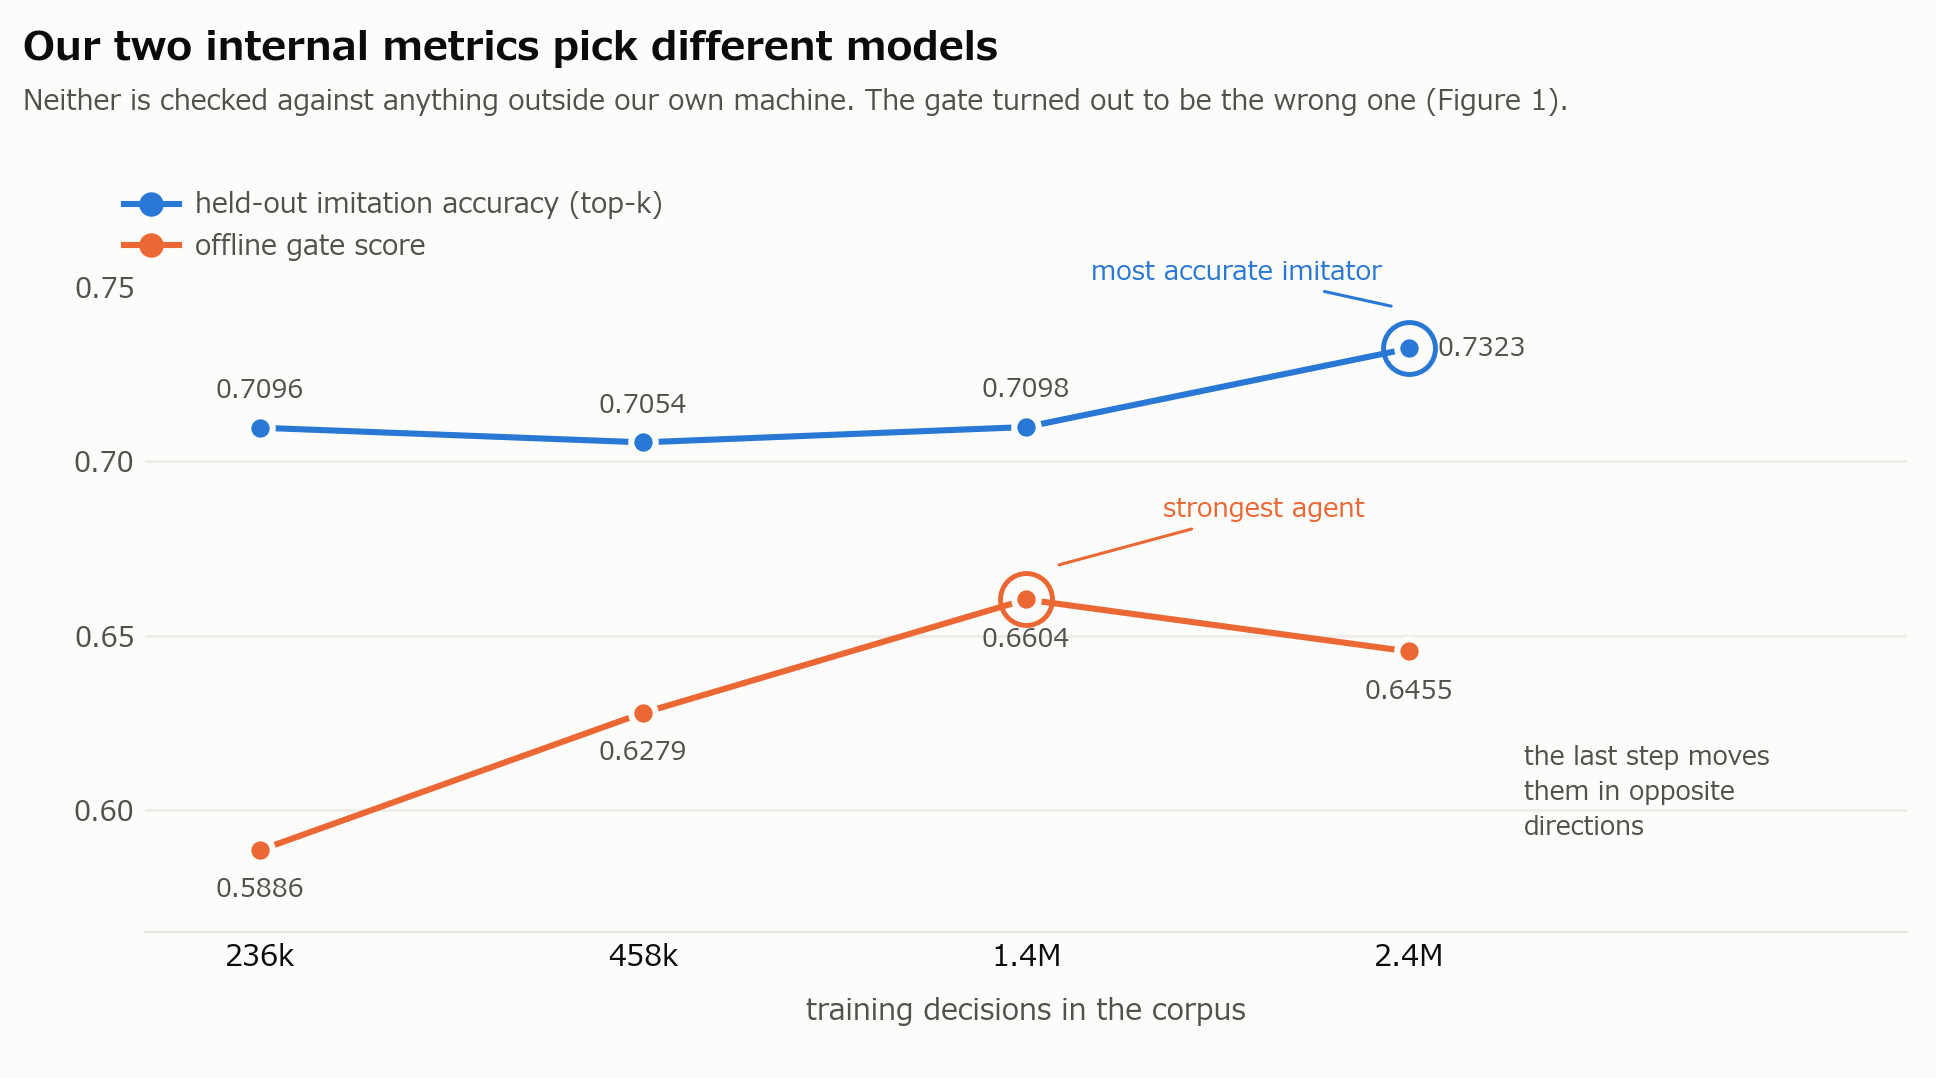
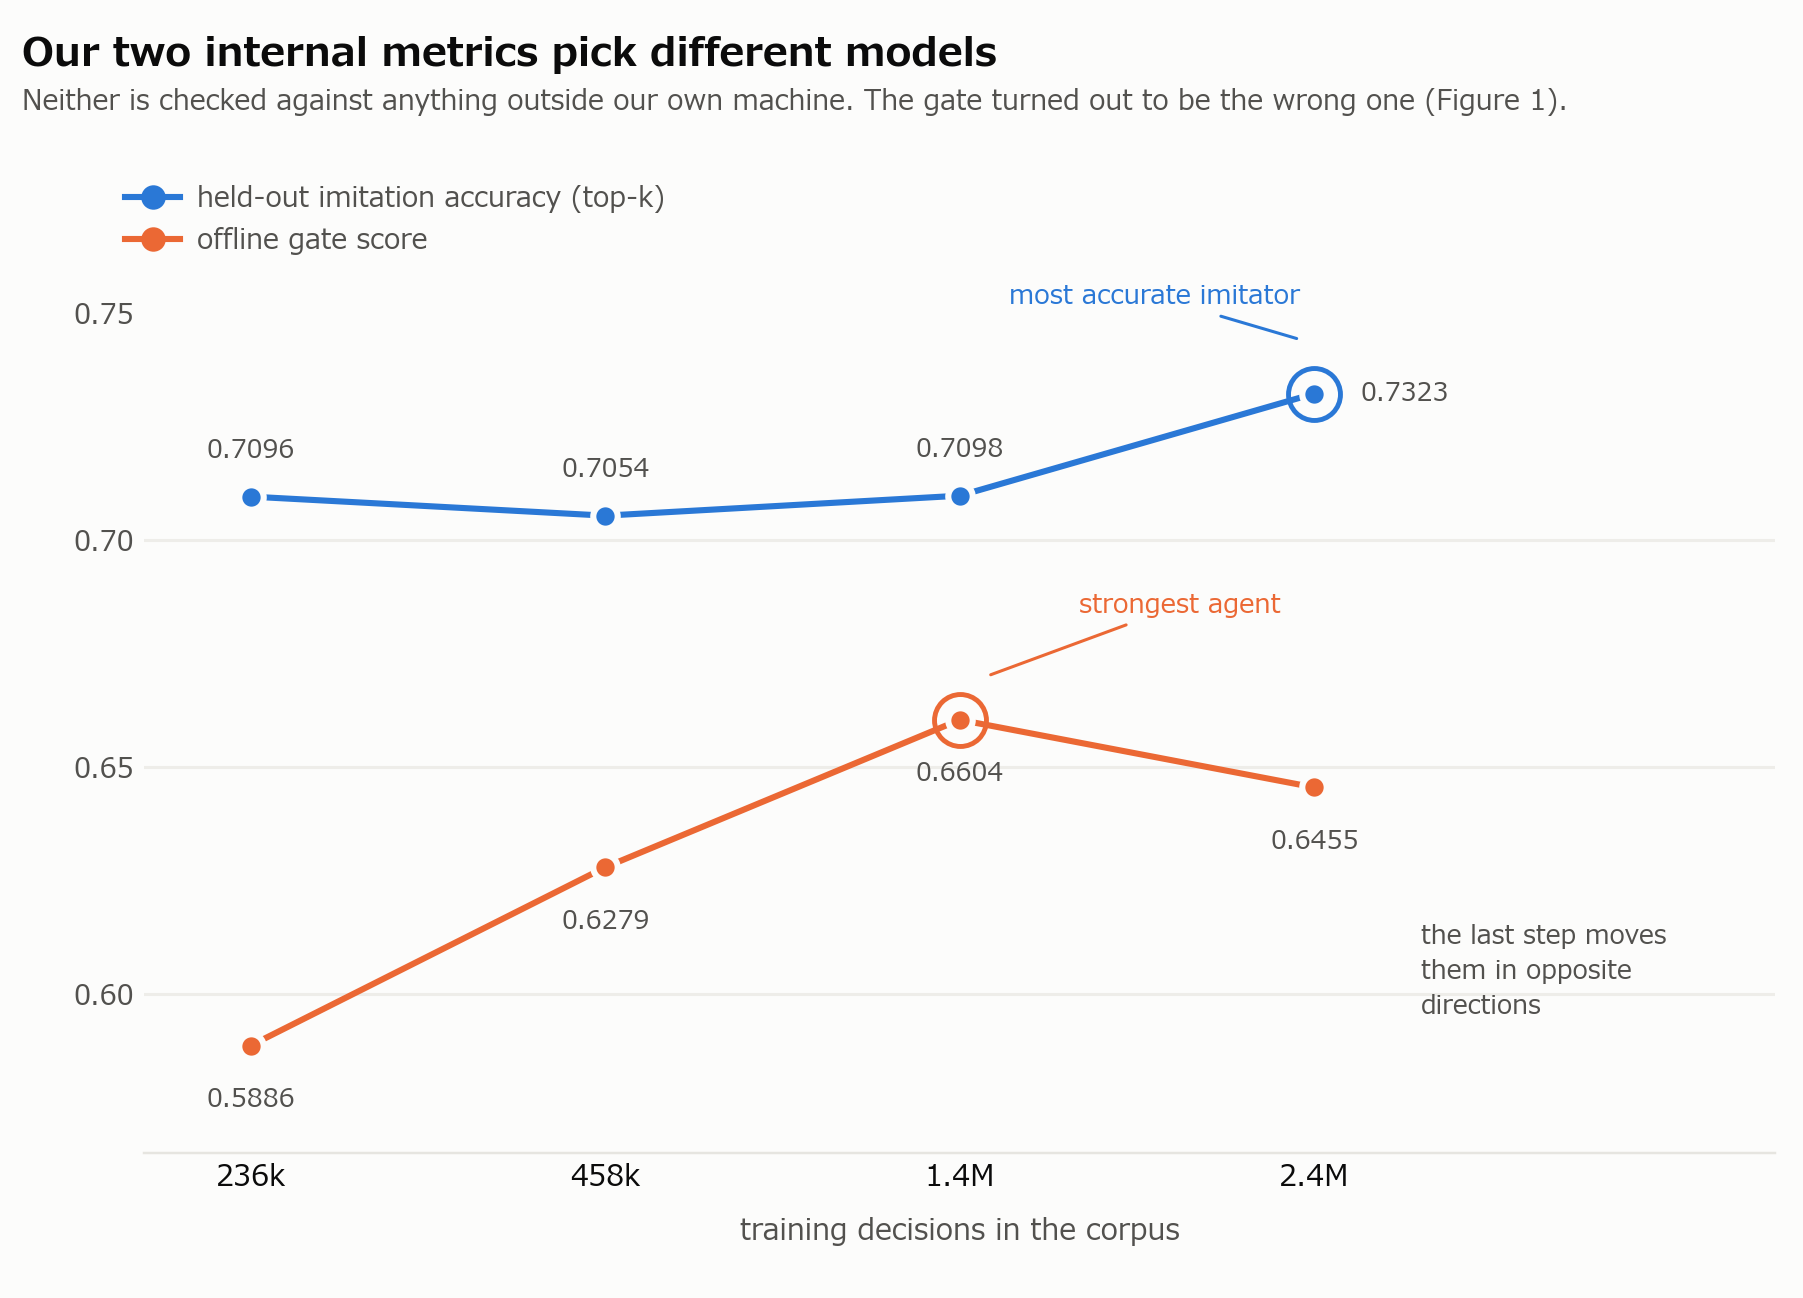
fix: reshape the five figures for the media gallery -- stack figure 3's panels vertically, narrow the ledger table, and add Japanese card names to the drift chart

diff --git a/competition/figures/fig3_drift.py b/competition/figures/fig3_drift.py
@@ -20,20 +20,20 @@ DRG, EBD, OURS = "#2a78d6", "#eb6834", "#184f95"
 DAYS = ["08-08", "08-11", "08-13", "08-15"]
 X = list(range(4))
 SHARE = {
-    "Dragapult":            ([10.7, 18.9, 27.7, 34.2], DRG,   2.4),
+    "Dragapult ドラパルトex":  ([10.7, 18.9, 27.7, 34.2], DRG,   2.4),
     "ex-beatdown":          ([12.8,  9.9, 22.5, 27.3], EBD,   2.4),
-    "Mixed-ex (ex4)":       ([18.9, 20.1,  9.3, 12.8], FAINT, 1.6),
-    "Alakazam-type":        ([17.1, 14.1, 15.9, 12.8], FAINT, 1.6),
-    "Grimmsnarl (ours)":    ([25.6, 18.6, 11.6,  6.1], MUTED, 1.8),
-    "Lucario ex":           ([ 4.7, 11.7,  5.5,  3.1], FAINT, 1.6),
-    "Crustle control":      ([ 6.0,  4.4,  6.7,  2.0], FAINT, 1.6),
+    "Mixed-ex (ex4)":        ([18.9, 20.1,  9.3, 12.8], FAINT, 1.6),
+    "Alakazam-type フーディン":  ([17.1, 14.1, 15.9, 12.8], FAINT, 1.6),
+    "Grimmsnarl マリィのオーロンゲex (ours)": ([25.6, 18.6, 11.6,  6.1], MUTED, 1.8),
+    "Lucario ex メガルカリオex": ([ 4.7, 11.7,  5.5,  3.1], FAINT, 1.6),
+    "Crustle control イワパレス": ([ 6.0,  4.4,  6.7,  2.0], FAINT, 1.6),
 }
 WR_DAYS = ["08-09", "08-11", "08-13", "08-15"]
 WR = [0.415, 0.403, 0.368, 0.334]
 ELO = [0, -8, -35, -60]
 
-fig, (axL, axR) = plt.subplots(1, 2, figsize=(11.2, 4.9), dpi=220,
-                               gridspec_kw={"width_ratios": [1.35, 1]})
+fig, (axL, axR) = plt.subplots(2, 1, figsize=(8.6, 7.6), dpi=220,
+                               gridspec_kw={"height_ratios": [1.25, 1]})
 fig.patch.set_facecolor(SURFACE)
 
 # ------------------------------------------------------------------ left panel
@@ -77,10 +77,10 @@ for x, (w, e) in enumerate(zip(WR, ELO)):
     if e:
         axR.text(x, w - 0.011, f"{e} Elo", ha="center", va="top", fontsize=8.3,
                  color=EBD, fontweight="bold")
-axR.annotate("", xy=(2.97, 0.336), xytext=(2.97, 0.4125),
+axR.annotate("", xy=(2.78, 0.3385), xytext=(2.78, 0.4125),
              arrowprops=dict(arrowstyle="-|>", color=EBD, lw=1.4,
                              mutation_scale=11, shrinkA=3, shrinkB=3))
-axR.text(2.86, 0.4285, "60 rating points, with the\nagent never touched",
+axR.text(2.67, 0.4285, "60 rating points, with the\nagent never touched",
          ha="right", va="top", fontsize=8.8, color=INK2, linespacing=1.5)
 
 axR.set_xticks(X); axR.set_xticklabels(WR_DAYS, fontsize=9, color=INK2)
@@ -98,12 +98,12 @@ for ax in (axL, axR):
     ax.tick_params(length=0)
 
 fig.suptitle("An evaluation result without a date on it does not reproduce",
-             x=0.008, y=0.972, ha="left", fontsize=13, color=INK, fontweight="bold")
-fig.text(0.008, 0.898,
-         "Right panel holds our measured per-matchup win rates fixed and swaps only "
-         "the field composition.",
+             x=0.008, y=0.982, ha="left", fontsize=13, color=INK, fontweight="bold")
+fig.text(0.008, 0.934,
+         "The lower panel holds our measured per-matchup win rates fixed and swaps "
+         "only the field composition.",
          ha="left", fontsize=9, color=INK2)
-fig.subplots_adjust(left=0.055, right=0.995, top=0.775, bottom=0.135, wspace=0.30)
+fig.subplots_adjust(left=0.072, right=0.995, top=0.855, bottom=0.075, hspace=0.42)
 out = __file__.replace(".py", ".png")
 fig.savefig(out, facecolor=SURFACE)
 print("wrote", out)

diff --git a/competition/figures/fig5_ledger.py b/competition/figures/fig5_ledger.py
@@ -32,9 +32,9 @@ ROWS = [
     ("Evaluation",    "paired shuffle seeds (CRN)",           "1",  None,   "4.66× less variance — adopted", True),
 ]
 
-fig, ax = plt.subplots(figsize=(11.4, 5.0), dpi=220)
+fig, ax = plt.subplots(figsize=(10.2, 6.6), dpi=220)
 fig.patch.set_facecolor(SURFACE); ax.set_facecolor(SURFACE)
-ax.set_xlim(0, 100); ax.set_ylim(6, 100); ax.axis("off")
+ax.set_xlim(0, 100); ax.set_ylim(7.1, 90.5); ax.axis("off")
 
 TOP, ROWH = 82.0, 7.3
 X_LANE, X_WHAT, X_N, X_AX0, X_AX1, X_NOTE = 1.0, 15.0, 44.5, 48.5, 66.5, 68.5
@@ -83,12 +83,12 @@ for i, (lane, what, n, score, note, ok) in enumerate(ROWS):
             color=PASS_C if ok else INK2, fontweight="bold" if ok else "normal")
 
 fig.suptitle("Ten lanes tested, one clean pass on our own gauntlet",
-             x=0.008, y=0.968, ha="left", fontsize=13, color=INK, fontweight="bold")
-fig.text(0.008, 0.902,
+             x=0.008, y=0.975, ha="left", fontsize=13, color=INK, fontweight="bold")
+fig.text(0.008, 0.925,
          "Every lane was judged by the gauntlet in Figure 1, which is the point of "
          "this report. Only the evaluation lane was judged by something else.",
          ha="left", fontsize=9, color=INK2)
-fig.subplots_adjust(left=0.008, right=0.995, top=0.86, bottom=0.02)
+fig.subplots_adjust(left=0.008, right=0.995, top=0.885, bottom=0.016)
 out = __file__.replace(".py", ".png")
 fig.savefig(out, facecolor=SURFACE)
 print("wrote", out, "| recorded runs:", sum(int(r[2]) for r in ROWS if r[2].isdigit()))

diff --git a/competition/figures/fig2_metrics_disagree.py b/competition/figures/fig2_metrics_disagree.py
@@ -22,7 +22,7 @@ ACCV = [0.7096, 0.7054, 0.7098, 0.7323]
 GATEV = [0.5886, 0.6279, 0.6604, 0.6455]
 X = list(range(4))
 
-fig, ax = plt.subplots(figsize=(8.8, 4.9), dpi=220)
+fig, ax = plt.subplots(figsize=(8.2, 5.9), dpi=220)
 fig.patch.set_facecolor(SURFACE); ax.set_facecolor(SURFACE)
 
 for y in (0.60, 0.65, 0.70):
@@ -35,7 +35,7 @@ ax.plot(X, GATEV, "-o", color=GATE, lw=2, ms=8, zorder=3,
 
 for x, v in zip(X, ACCV):
     if x == 3:
-        ax.text(x + 0.075, v, f"{v:.4f}", ha="left", va="center", fontsize=8.4, color=INK2)
+        ax.text(x + 0.13, v, f"{v:.4f}", ha="left", va="center", fontsize=8.4, color=INK2)
     else:
         ax.text(x, v + 0.0085, f"{v:.4f}", ha="center", fontsize=8.4, color=INK2)
 for x, v in zip(X, GATEV):
@@ -76,11 +76,11 @@ ax.tick_params(length=0)
 
 fig.suptitle("Our two internal metrics pick different models",
              x=0.012, y=0.972, ha="left", fontsize=13, color=INK, fontweight="bold")
-fig.text(0.012, 0.898,
+fig.text(0.012, 0.915,
          "Neither is checked against anything outside our own machine. "
          "The gate turned out to be the wrong one (Figure 1).",
          ha="left", fontsize=9, color=INK2)
-fig.subplots_adjust(left=0.075, right=0.985, top=0.815, bottom=0.135)
+fig.subplots_adjust(left=0.080, right=0.984, top=0.846, bottom=0.112)
 out = __file__.replace(".py", ".png")
 fig.savefig(out, facecolor=SURFACE)
 print("wrote", out)

diff --git a/competition/figures/fig4_deck_plan.py b/competition/figures/fig4_deck_plan.py
@@ -20,7 +20,7 @@ OURS, OURS_L = "#184f95", "#dce9f9"
 DMG = "#ec835a"                      # status: serious -- reserved for damage only
 GRAYBOX = "#eeede9"
 
-fig, ax = plt.subplots(figsize=(10.6, 5.6), dpi=220)
+fig, ax = plt.subplots(figsize=(10.6, 7.5), dpi=220)
 fig.patch.set_facecolor(SURFACE); ax.set_facecolor(SURFACE)
 ax.set_xlim(0, 100); ax.set_ylim(0, 62); ax.axis("off")
 
@@ -102,8 +102,8 @@ ax.text(48.5, 12.4, "Three Knock Outs take all six Prize cards. 320 HP means the
         fontsize=8.4, color=INK, va="top", linespacing=1.55)
 
 fig.suptitle("Marnie's Grimmsnarl ex — one Ability pays the Energy, two do the arithmetic",
-             x=0.008, y=0.972, ha="left", fontsize=13, color=INK, fontweight="bold")
-fig.subplots_adjust(left=0.012, right=0.988, top=0.90, bottom=0.02)
+             x=0.008, y=0.978, ha="left", fontsize=13, color=INK, fontweight="bold")
+fig.subplots_adjust(left=0.012, right=0.988, top=0.918, bottom=0.018)
 out = __file__.replace(".py", ".png")
 fig.savefig(out, facecolor=SURFACE)
 print("wrote", out)

diff --git a/competition/figures/fig1_gate_vs_ladder.py b/competition/figures/fig1_gate_vs_ladder.py
@@ -32,7 +32,7 @@ ROWS = [
     ("Crustle control\nイワパレス",    0.800, 0.619,  42,  2.0),
 ]
 
-fig, ax = plt.subplots(figsize=(9.6, 5.0), dpi=220)
+fig, ax = plt.subplots(figsize=(8.6, 6.2), dpi=220)
 fig.patch.set_facecolor(SURFACE)
 ax.set_facecolor(SURFACE)
 
@@ -91,12 +91,12 @@ ax.legend(handles=[
 
 fig.suptitle("Every cell overstated us, and not by the same amount",
              x=0.012, y=0.975, ha="left", fontsize=13.5, color=INK, fontweight="bold")
-fig.text(0.012, 0.905,
+fig.text(0.012, 0.923,
          "6,292 ladder games, 2026-08-13..15, seats running our exact list. "
          "Field-weighted true win rate: 0.33.",
          ha="left", fontsize=9, color=INK2)
 
-fig.subplots_adjust(left=0.215, right=0.90, top=0.83, bottom=0.13)
+fig.subplots_adjust(left=0.240, right=0.888, top=0.863, bottom=0.105)
 out = __file__.replace(".py", ".png")
 fig.savefig(out, facecolor=SURFACE)
 print("wrote", out)

diff --git a/competition/submit_writeup/CAPTIONS.md b/competition/submit_writeup/CAPTIONS.md
@@ -19,10 +19,10 @@ and neither metric is checked against anything outside our own machine.
 
 ## 03_metagame_drift.png
 **An evaluation result without a date on it does not reproduce.**
-Left: share of the field by archetype over one week; the two decks we lose to went
-from 23.5% to 61.5% while our own archetype fell from 25.6% to 6.1%. Right: our
-measured per-matchup win rates applied to each day's composition, with the agent
-held completely fixed — 0.415 to 0.334, about 60 rating points.
+Upper panel: share of the field by archetype over one week; the two decks we lose
+to went from 23.5% to 61.5% while our own archetype fell from 25.6% to 6.1%. Lower
+panel: our measured per-matchup win rates applied to each day's composition, with
+the agent held completely fixed — 0.415 to 0.334, about 60 rating points.
 
 ## 04_deck_plan.png
 **Marnie's Grimmsnarl ex: one Ability pays the Energy, two do the arithmetic.**
